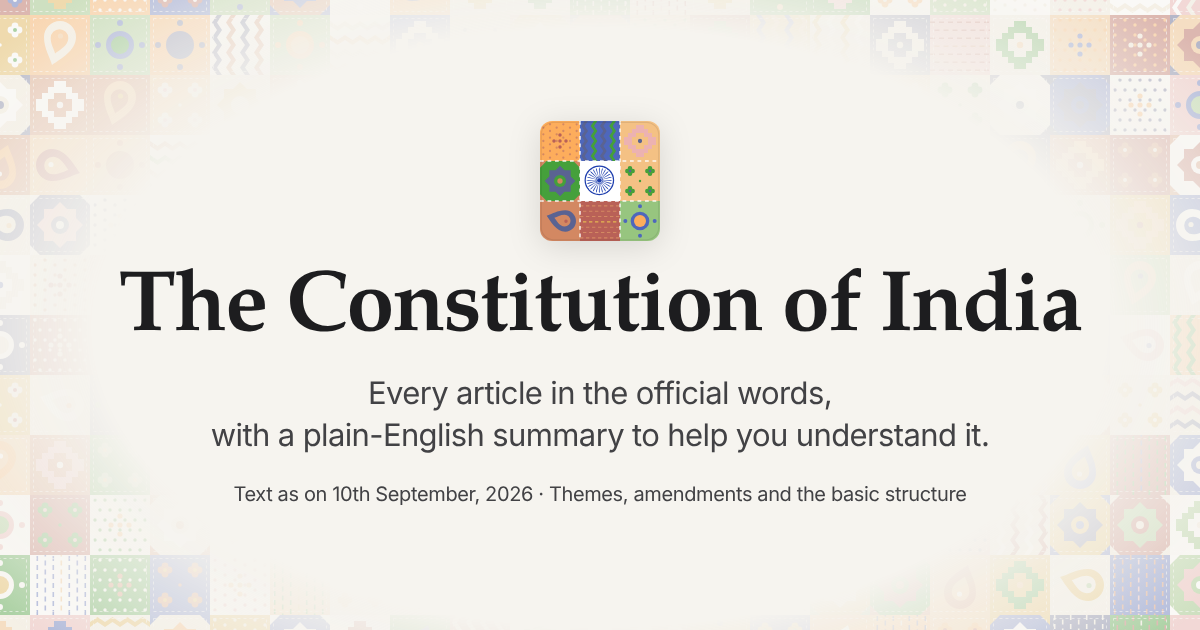
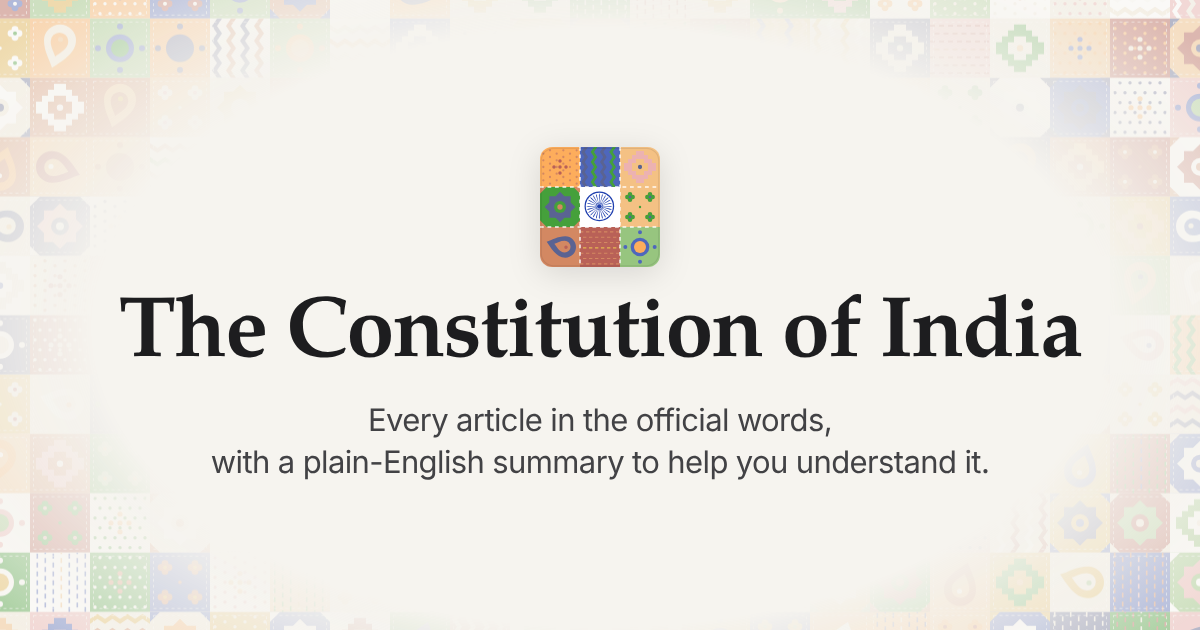
Drop the "Text as on" line from the share image
Claude-Session: https://claude.ai/code/session_01PxfPfrC9GxqU7dCjSQ44Kd

diff --git a/src/make_icons.js b/src/make_icons.js
@@ -56,9 +56,9 @@ function ico(pngs) {
   });
   fs.writeFileSync(path.join(out, "apple-touch-icon.png"), await shot(mark, 180));
 
-  /* share image: the home hero, cut down to the mark, the title and one line */
+  /* share image: the home hero, cut down to the mark, the title and the lede */
   await p.addStyleTag({ content: `
-    .tri,.bar,.tabs,.qstrip,.foot,.spot,.hero .pills,.hero~*{display:none!important}
+    .tri,.bar,.tabs,.qstrip,.foot,.spot,.hero .pills,.hero .asof,.hero~*{display:none!important}
     body{padding:0!important}
     .hero{height:630px!important;display:grid!important;place-items:center}
     .hero-in{padding:0!important}
@@ -66,10 +66,8 @@ function ico(pngs) {
     .hero .mark{width:120px!important;margin-bottom:26px!important}
     .hero h1{font-size:86px!important}
     .hero .lede{font-size:31px!important;max-width:none!important;margin-top:18px!important;color:var(--label-2)!important}
-    .hero .asof{font-size:20px!important;margin-top:24px!important;color:var(--label-2)!important}` });
+` });
   await p.evaluate(() => {
-    const a = document.querySelector(".hero .asof");
-    a.textContent = a.textContent.split(" · ")[0] + " · Themes, amendments and the basic structure";
     document.querySelector(".hero .lede").innerHTML = "Every article in the official words,<br>with a plain-English summary to help you understand it.";
   });
   await p.waitForTimeout(300);
